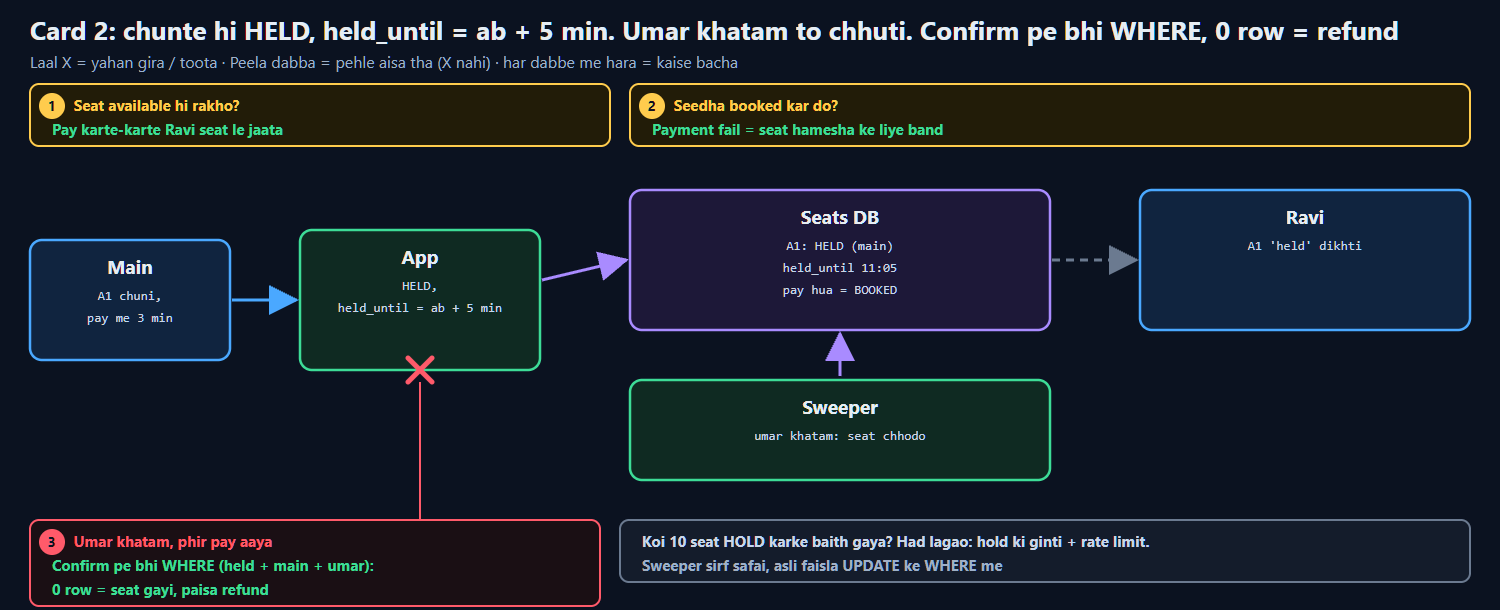
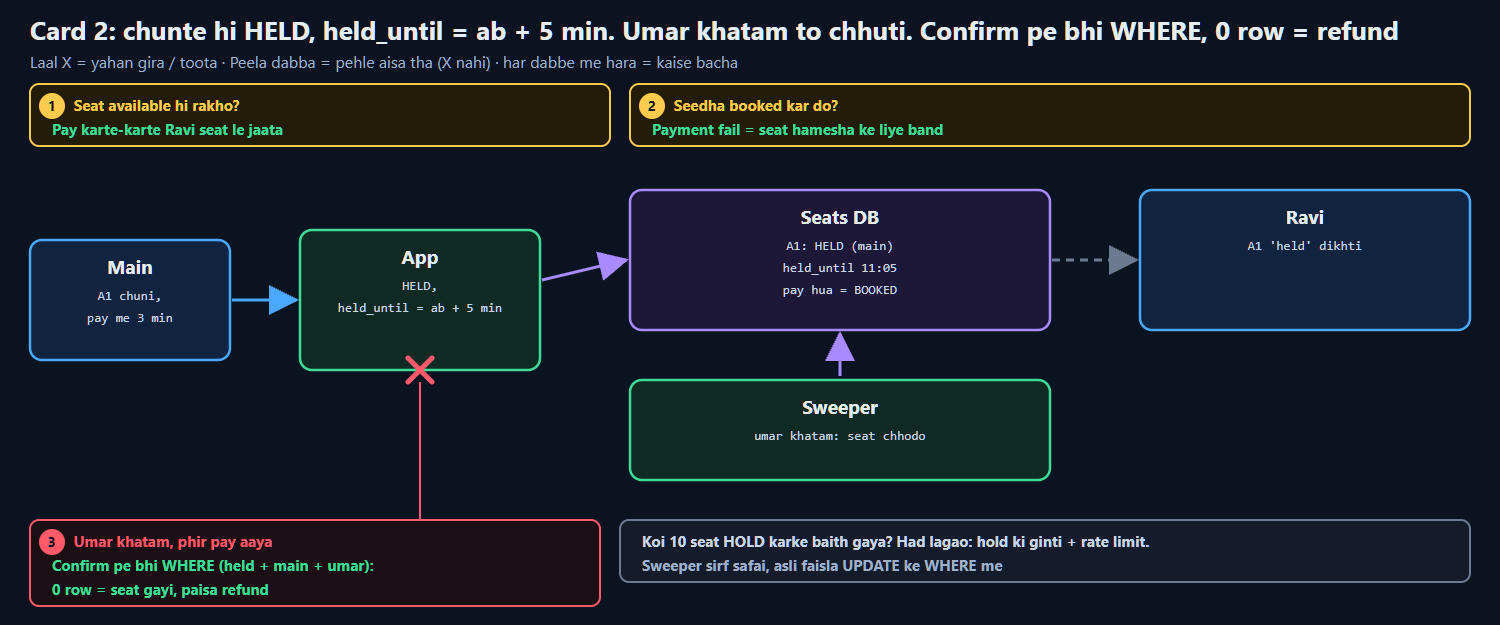
hld check: url c3 poster me custom code ki lambai + reserved naam (list se chhoota tha), url c5 callout Machine 1 se takra raha tha, bms c2 neeche jagah

diff --git a/04_HLD/SYSTEM_DESIGNS/09_bookmyshow/img/c2_poster.html b/04_HLD/SYSTEM_DESIGNS/09_bookmyshow/img/c2_poster.html
@@ -2,13 +2,13 @@
 <meta charset="utf-8">
 <title>Card 2: chunte hi HELD, held_until = ab </title>
 <style>body{margin:0;background:#0b1220} svg text{font-family:"Segoe UI",Arial,sans-serif} .m{font-family:Consolas,monospace}</style>
-<svg width="1500" height="610" viewBox="0 0 1500 610" xmlns="http://www.w3.org/2000/svg"><defs>
+<svg width="1500" height="625" viewBox="0 0 1500 625" xmlns="http://www.w3.org/2000/svg"><defs>
 <marker id="ablue" markerWidth="10" markerHeight="10" refX="9" refY="5" orient="auto"><path d="M0,0 L10,5 L0,10 Z" fill="#4aa8ff"/></marker>
 <marker id="agreen" markerWidth="10" markerHeight="10" refX="9" refY="5" orient="auto"><path d="M0,0 L10,5 L0,10 Z" fill="#3ddc97"/></marker>
 <marker id="apurple" markerWidth="10" markerHeight="10" refX="9" refY="5" orient="auto"><path d="M0,0 L10,5 L0,10 Z" fill="#a98bff"/></marker>
 <marker id="agrey" markerWidth="10" markerHeight="10" refX="9" refY="5" orient="auto"><path d="M0,0 L10,5 L0,10 Z" fill="#6b7a90"/></marker>
 <marker id="aorange" markerWidth="10" markerHeight="10" refX="9" refY="5" orient="auto"><path d="M0,0 L10,5 L0,10 Z" fill="#ffa94d"/></marker>
-</defs><rect width="1500" height="610" fill="#0b1220"/>
+</defs><rect width="1500" height="625" fill="#0b1220"/>
 <text x="30" y="40" font-size="26" font-weight="700" fill="#e6edf3">Card 2: chunte hi HELD, held_until = ab + 5 min. Umar khatam to chhuti. Confirm pe bhi WHERE, 0 row = refund</text>
 <text x="30" y="68" font-size="16" fill="#9fb0c8">Laal X = yahan gira / toota · Peela dabba = pehle aisa tha (X nahi) · har dabbe me hara = kaise bacha</text>
 <rect x="30" y="240" width="200" height="120" rx="12" fill="#10243f" stroke="#4aa8ff" stroke-width="2.5"/>

diff --git a/04_HLD/SYSTEM_DESIGNS/01_url_shortener/img/c3_poster.html b/04_HLD/SYSTEM_DESIGNS/01_url_shortener/img/c3_poster.html
@@ -47,13 +47,14 @@
 <text x="52" y="111" font-size="14" font-weight="700" fill="#0b1220" text-anchor="middle">1</text>
 <text x="74" y="111" font-size="15" font-weight="700" fill="#ff5a6a">App 1 range me 400 pe crash ho gaya</text>
 <text x="52" y="135" font-size="15" font-weight="700" fill="#3ddc97">401 se 1000 bekaar, jaan-boojh ke. 3.5 lakh crore me farak nahi</text>
-<path d="M1388 223 L1388 146" fill="none" stroke="#ff5a6a" stroke-width="2"/>
+<path d="M1388 223 L1388 170" fill="none" stroke="#ff5a6a" stroke-width="2"/>
 <g stroke="#ff5a6a" stroke-width="5" stroke-linecap="round"><line x1="1376" y1="225" x2="1400" y2="249"/><line x1="1400" y1="225" x2="1376" y2="249"/></g>
-<rect x="900" y="84" width="570" height="62" rx="9" fill="#1a0f14" stroke="#ff5a6a" stroke-width="2"/>
+<rect x="900" y="84" width="570" height="86" rx="9" fill="#1a0f14" stroke="#ff5a6a" stroke-width="2"/>
 <circle cx="922" cy="106" r="13" fill="#ff5a6a"/>
 <text x="922" y="111" font-size="14" font-weight="700" fill="#0b1220" text-anchor="middle">2</text>
 <text x="944" y="111" font-size="15" font-weight="700" fill="#ff5a6a">Maine aur Ravi ne ek hi custom code maanga</text>
 <text x="922" y="135" font-size="15" font-weight="700" fill="#3ddc97">DB ka UNIQUE ek ko rokta, use 409</text>
+<text x="922" y="159" font-size="15" font-weight="700" fill="#3ddc97">Lambai dekho, admin jaise reserved naam nahi</text>
 <path d="M450 422 L450 470" fill="none" stroke="#ffcc4d" stroke-width="2" stroke-dasharray="6 5"/>
 <rect x="30" y="470" width="700" height="86" rx="9" fill="#221c08" stroke="#ffcc4d" stroke-width="2"/>
 <circle cx="52" cy="492" r="13" fill="#ffcc4d"/>

diff --git a/04_HLD/SYSTEM_DESIGNS/01_url_shortener/img/c5_poster.html b/04_HLD/SYSTEM_DESIGNS/01_url_shortener/img/c5_poster.html
@@ -32,7 +32,7 @@
 <text x="330" y="308" font-size="13" fill="#3ddc97" class="m" text-anchor="middle">hash(code)</text>
 <path d="M882 330 L996 320" fill="none" stroke="#a98bff" stroke-width="3" stroke-dasharray="8 6" marker-end="url(#apurple)"/>
 <path d="M140 170 L140 270" fill="none" stroke="#ffcc4d" stroke-width="2" stroke-dasharray="6 5"/>
-<rect x="30" y="84" width="640" height="86" rx="9" fill="#221c08" stroke="#ffcc4d" stroke-width="2"/>
+<rect x="30" y="84" width="550" height="86" rx="9" fill="#221c08" stroke="#ffcc4d" stroke-width="2"/>
 <circle cx="52" cy="106" r="13" fill="#ffcc4d"/>
 <text x="52" y="111" font-size="14" font-weight="700" fill="#0b1220" text-anchor="middle">1</text>
 <text x="74" y="111" font-size="15" font-weight="700" fill="#ffcc4d">Country se baant dete, ya ek badi machine le lete?</text>
